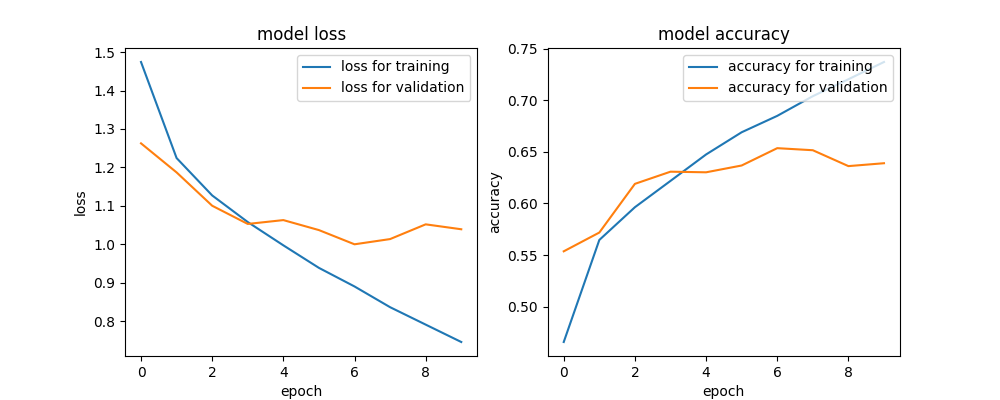
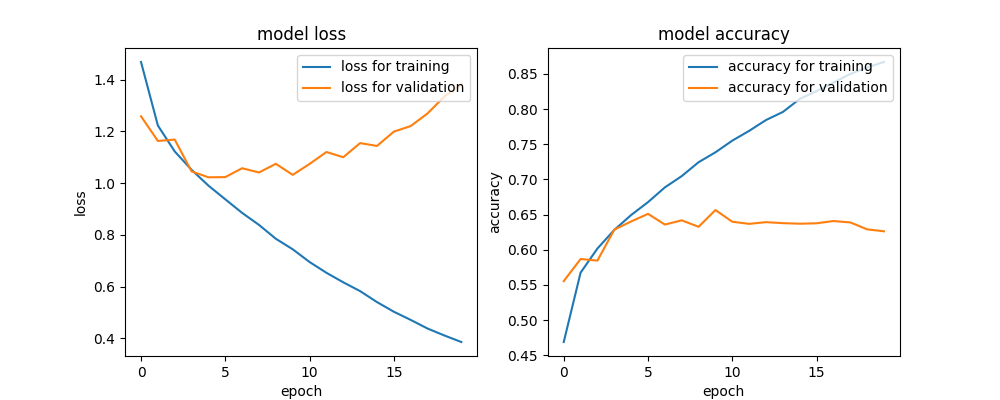
feat:chage image

diff --git a/src/utils/unpack.py b/src/utils/unpack.py
@@ -100,7 +100,6 @@ def image_save(source_path: str, mode: str, batch_id: int = 0) -> None:
             pil_image_color = Image.fromarray(rgb_arr)
 
             pil_image_color.save(save_data_path / f"{mode}_{image_id}.png")
-            # print(f"{mode}_{image_id}.png")
             fl.write(f"{label_lst[i]}")
             image_id += 1
 

diff --git a/src/cnn/train.py b/src/cnn/train.py
@@ -182,7 +182,7 @@ def training(model):
         train_images,
         train_labels_onehot,
         batch_size=32,
-        epochs=10,
+        epochs=20,
         validation_split=0.1,
         verbose=1,
     )

diff --git a/README.md b/README.md
@@ -20,7 +20,7 @@ make lint
 で解凍
 
 `python unpack.py`
-で訓練データとテストデータに分割して展開
+で訓練データとテストデータをそれぞれ、data以下に保存する。
 
 
 ## モデルの学習とテストデータでの精度確認
